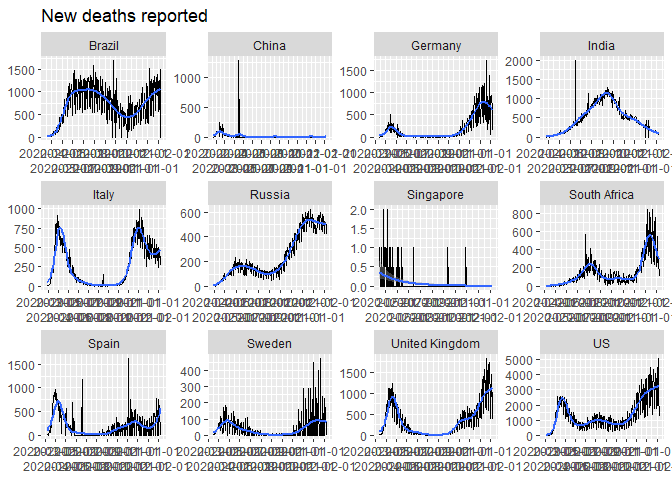
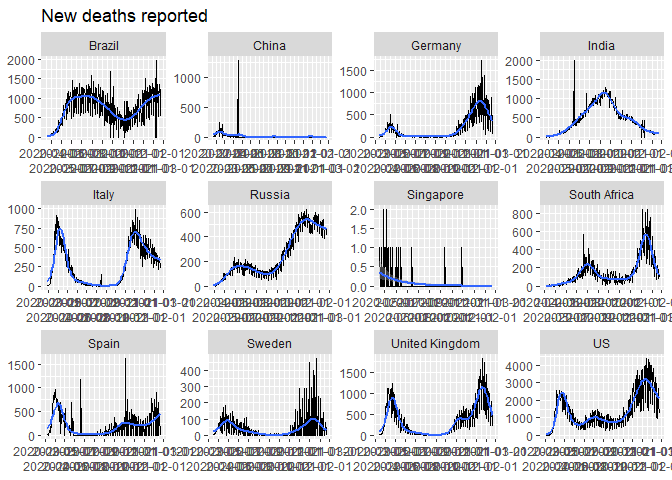
Refresh

diff --git a/README.md b/README.md
@@ -18,7 +18,7 @@ The data source is [a repository maintained by Johns Hopkins
 University](https://github.com/CSSEGISandData/COVID-19). The data is
 updated once per day.
 
-Last updated at 2021-02-08 07:18:54
+Last updated at 2021-02-22 07:18:10
 
 ## Total cases
 
@@ -26,16 +26,16 @@ Last updated at 2021-02-08 07:18:54
     #> # Groups:   country [1]
     #>    country      date         lat  long   cases
     #>    <chr>        <date>     <dbl> <dbl>   <dbl>
-    #>  1 South Africa 2021-01-29 -30.6  22.9 1443939
-    #>  2 South Africa 2021-01-30 -30.6  22.9 1449236
-    #>  3 South Africa 2021-01-31 -30.6  22.9 1453761
-    #>  4 South Africa 2021-02-01 -30.6  22.9 1456309
-    #>  5 South Africa 2021-02-02 -30.6  22.9 1458958
-    #>  6 South Africa 2021-02-03 -30.6  22.9 1463016
-    #>  7 South Africa 2021-02-04 -30.6  22.9 1466767
-    #>  8 South Africa 2021-02-05 -30.6  22.9 1470516
-    #>  9 South Africa 2021-02-06 -30.6  22.9 1473700
-    #> 10 South Africa 2021-02-07 -30.6  22.9 1476135
+    #>  1 South Africa 2021-02-12 -30.6  22.9 1487681
+    #>  2 South Africa 2021-02-13 -30.6  22.9 1490063
+    #>  3 South Africa 2021-02-14 -30.6  22.9 1491807
+    #>  4 South Africa 2021-02-15 -30.6  22.9 1492909
+    #>  5 South Africa 2021-02-16 -30.6  22.9 1494119
+    #>  6 South Africa 2021-02-17 -30.6  22.9 1496439
+    #>  7 South Africa 2021-02-18 -30.6  22.9 1498766
+    #>  8 South Africa 2021-02-19 -30.6  22.9 1500677
+    #>  9 South Africa 2021-02-20 -30.6  22.9 1502367
+    #> 10 South Africa 2021-02-21 -30.6  22.9 1503796
 
 ### Linear scale
 
@@ -69,16 +69,16 @@ indicates exponential growth.
     #> # Groups:   country [1]
     #>    country      date       deaths
     #>    <chr>        <date>      <dbl>
-    #>  1 South Africa 2021-01-29  43633
-    #>  2 South Africa 2021-01-30  43951
-    #>  3 South Africa 2021-01-31  44164
-    #>  4 South Africa 2021-02-01  44399
-    #>  5 South Africa 2021-02-02  44946
-    #>  6 South Africa 2021-02-03  45344
-    #>  7 South Africa 2021-02-04  45605
-    #>  8 South Africa 2021-02-05  45902
-    #>  9 South Africa 2021-02-06  46180
-    #> 10 South Africa 2021-02-07  46290
+    #>  1 South Africa 2021-02-12  47670
+    #>  2 South Africa 2021-02-13  47821
+    #>  3 South Africa 2021-02-14  47899
+    #>  4 South Africa 2021-02-15  48094
+    #>  5 South Africa 2021-02-16  48313
+    #>  6 South Africa 2021-02-17  48478
+    #>  7 South Africa 2021-02-18  48708
+    #>  8 South Africa 2021-02-19  48859
+    #>  9 South Africa 2021-02-20  48940
+    #> 10 South Africa 2021-02-21  49053
 
 ### Linear scale
 
